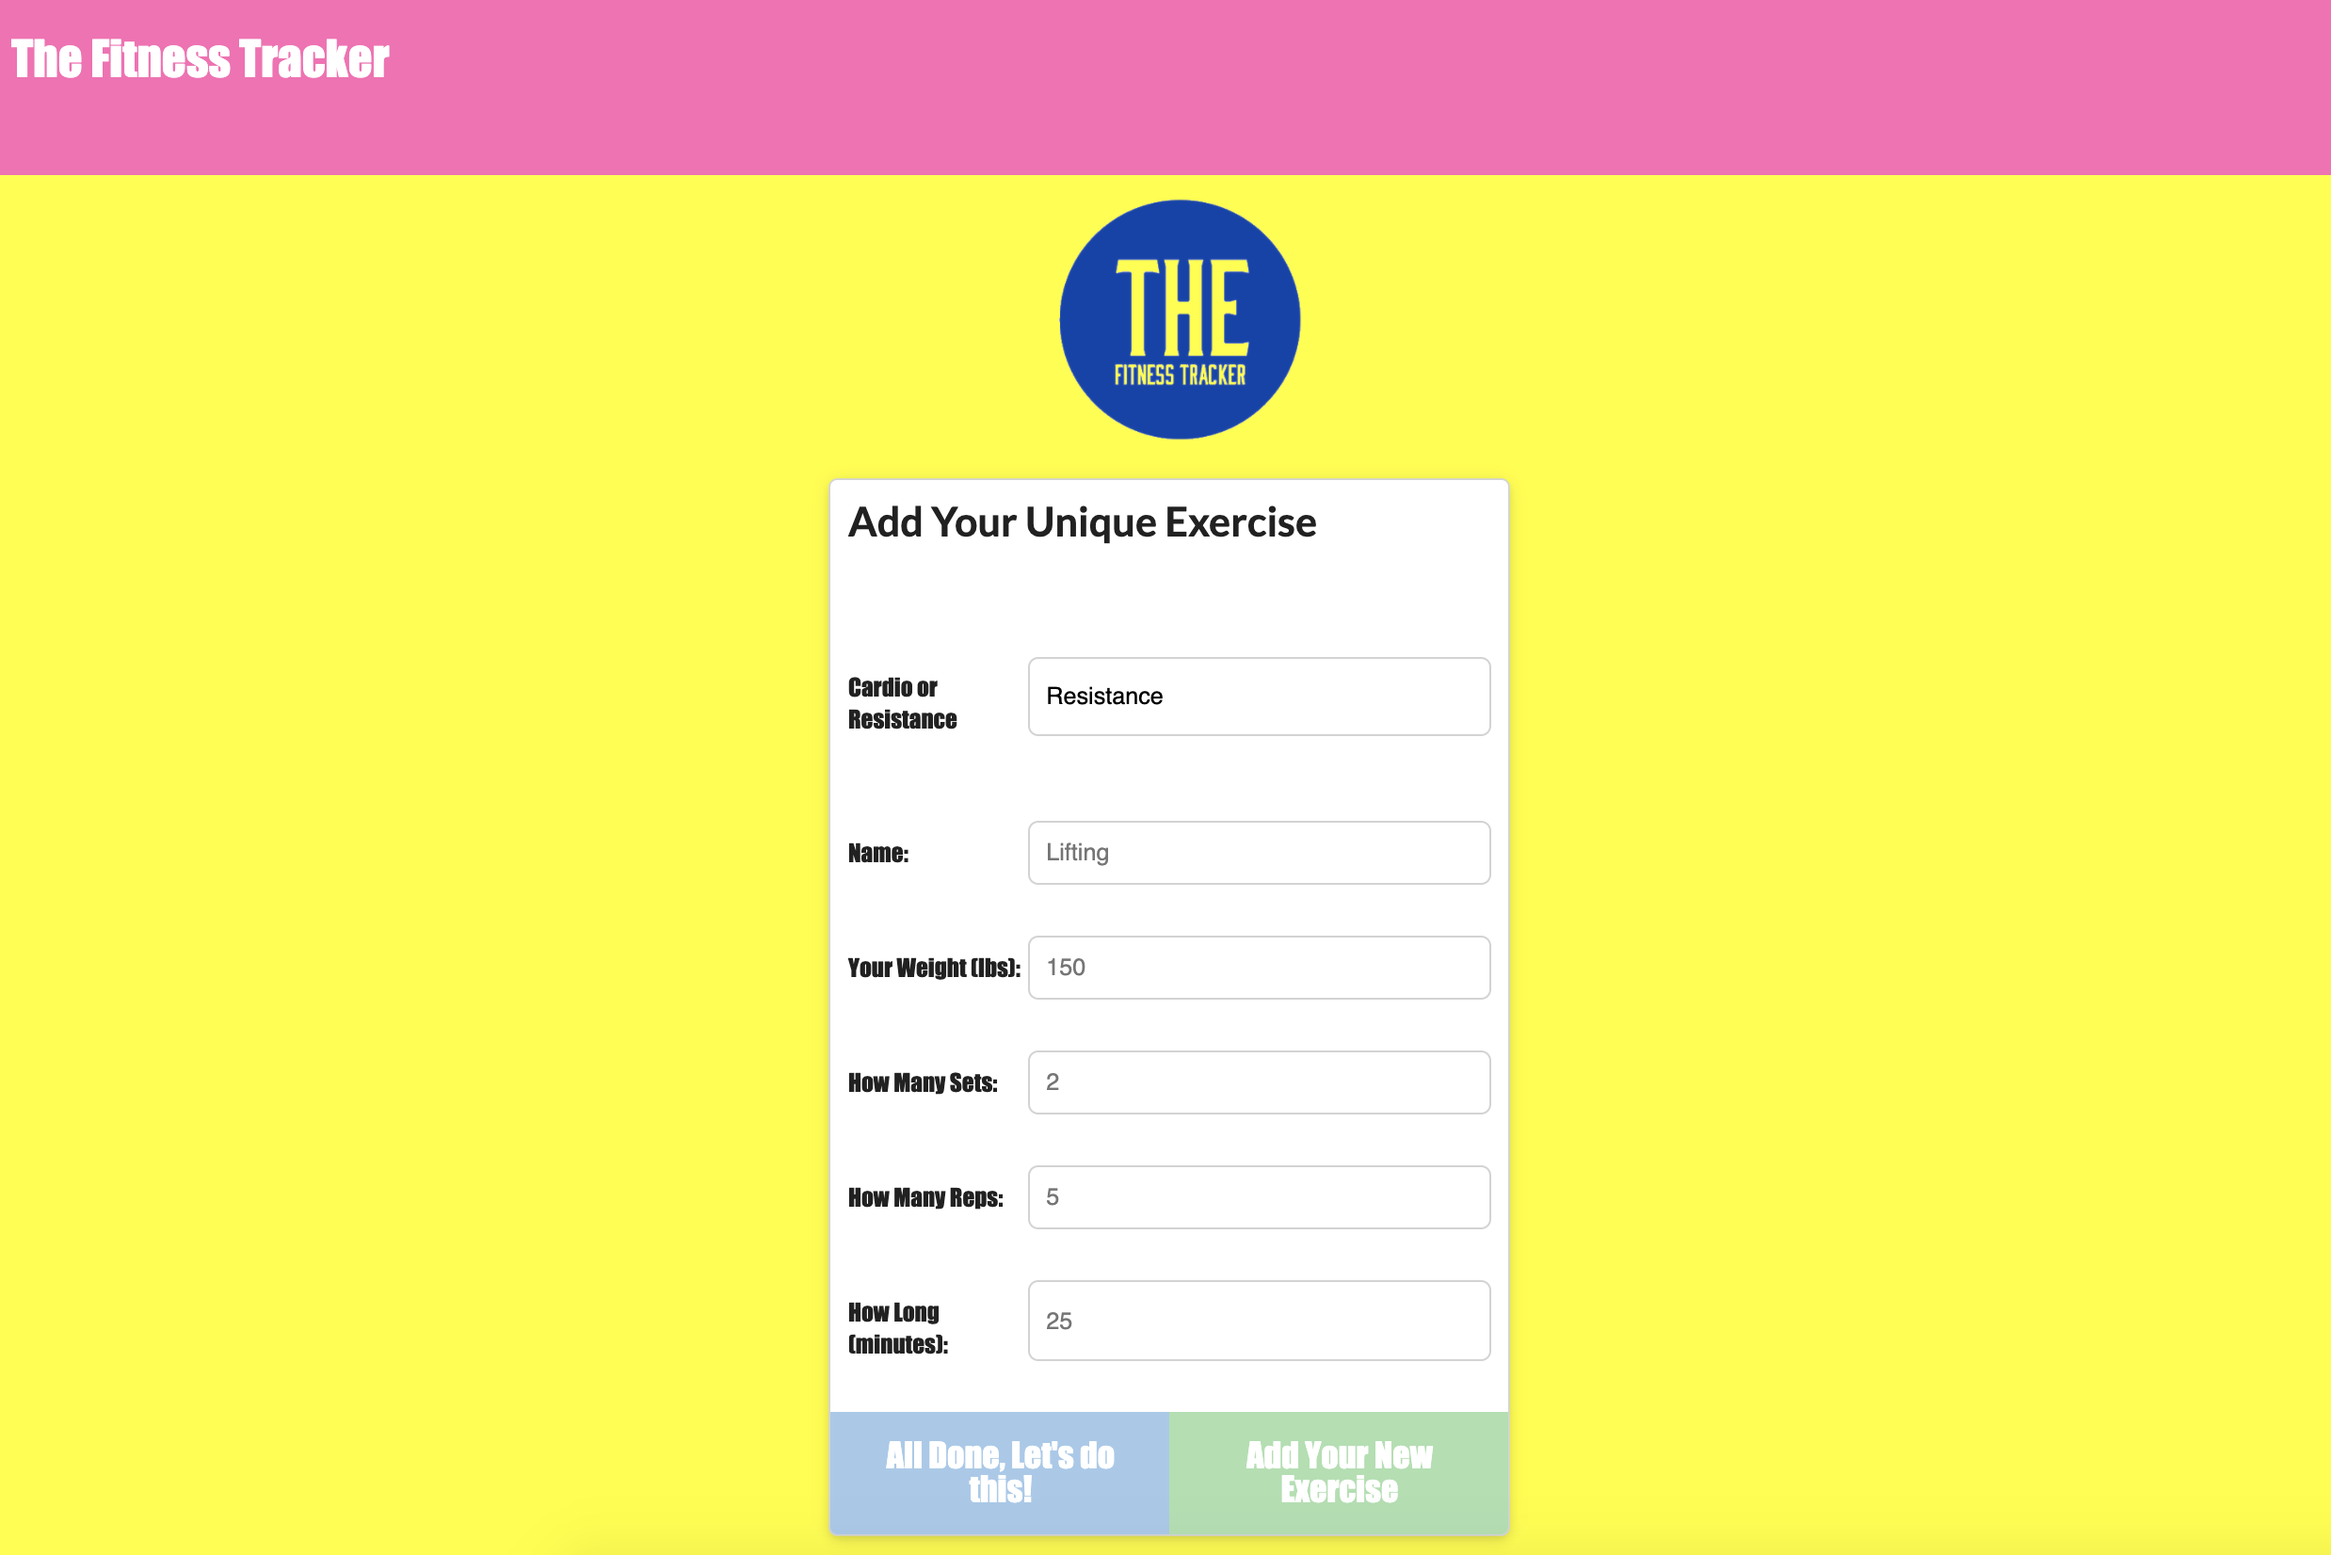
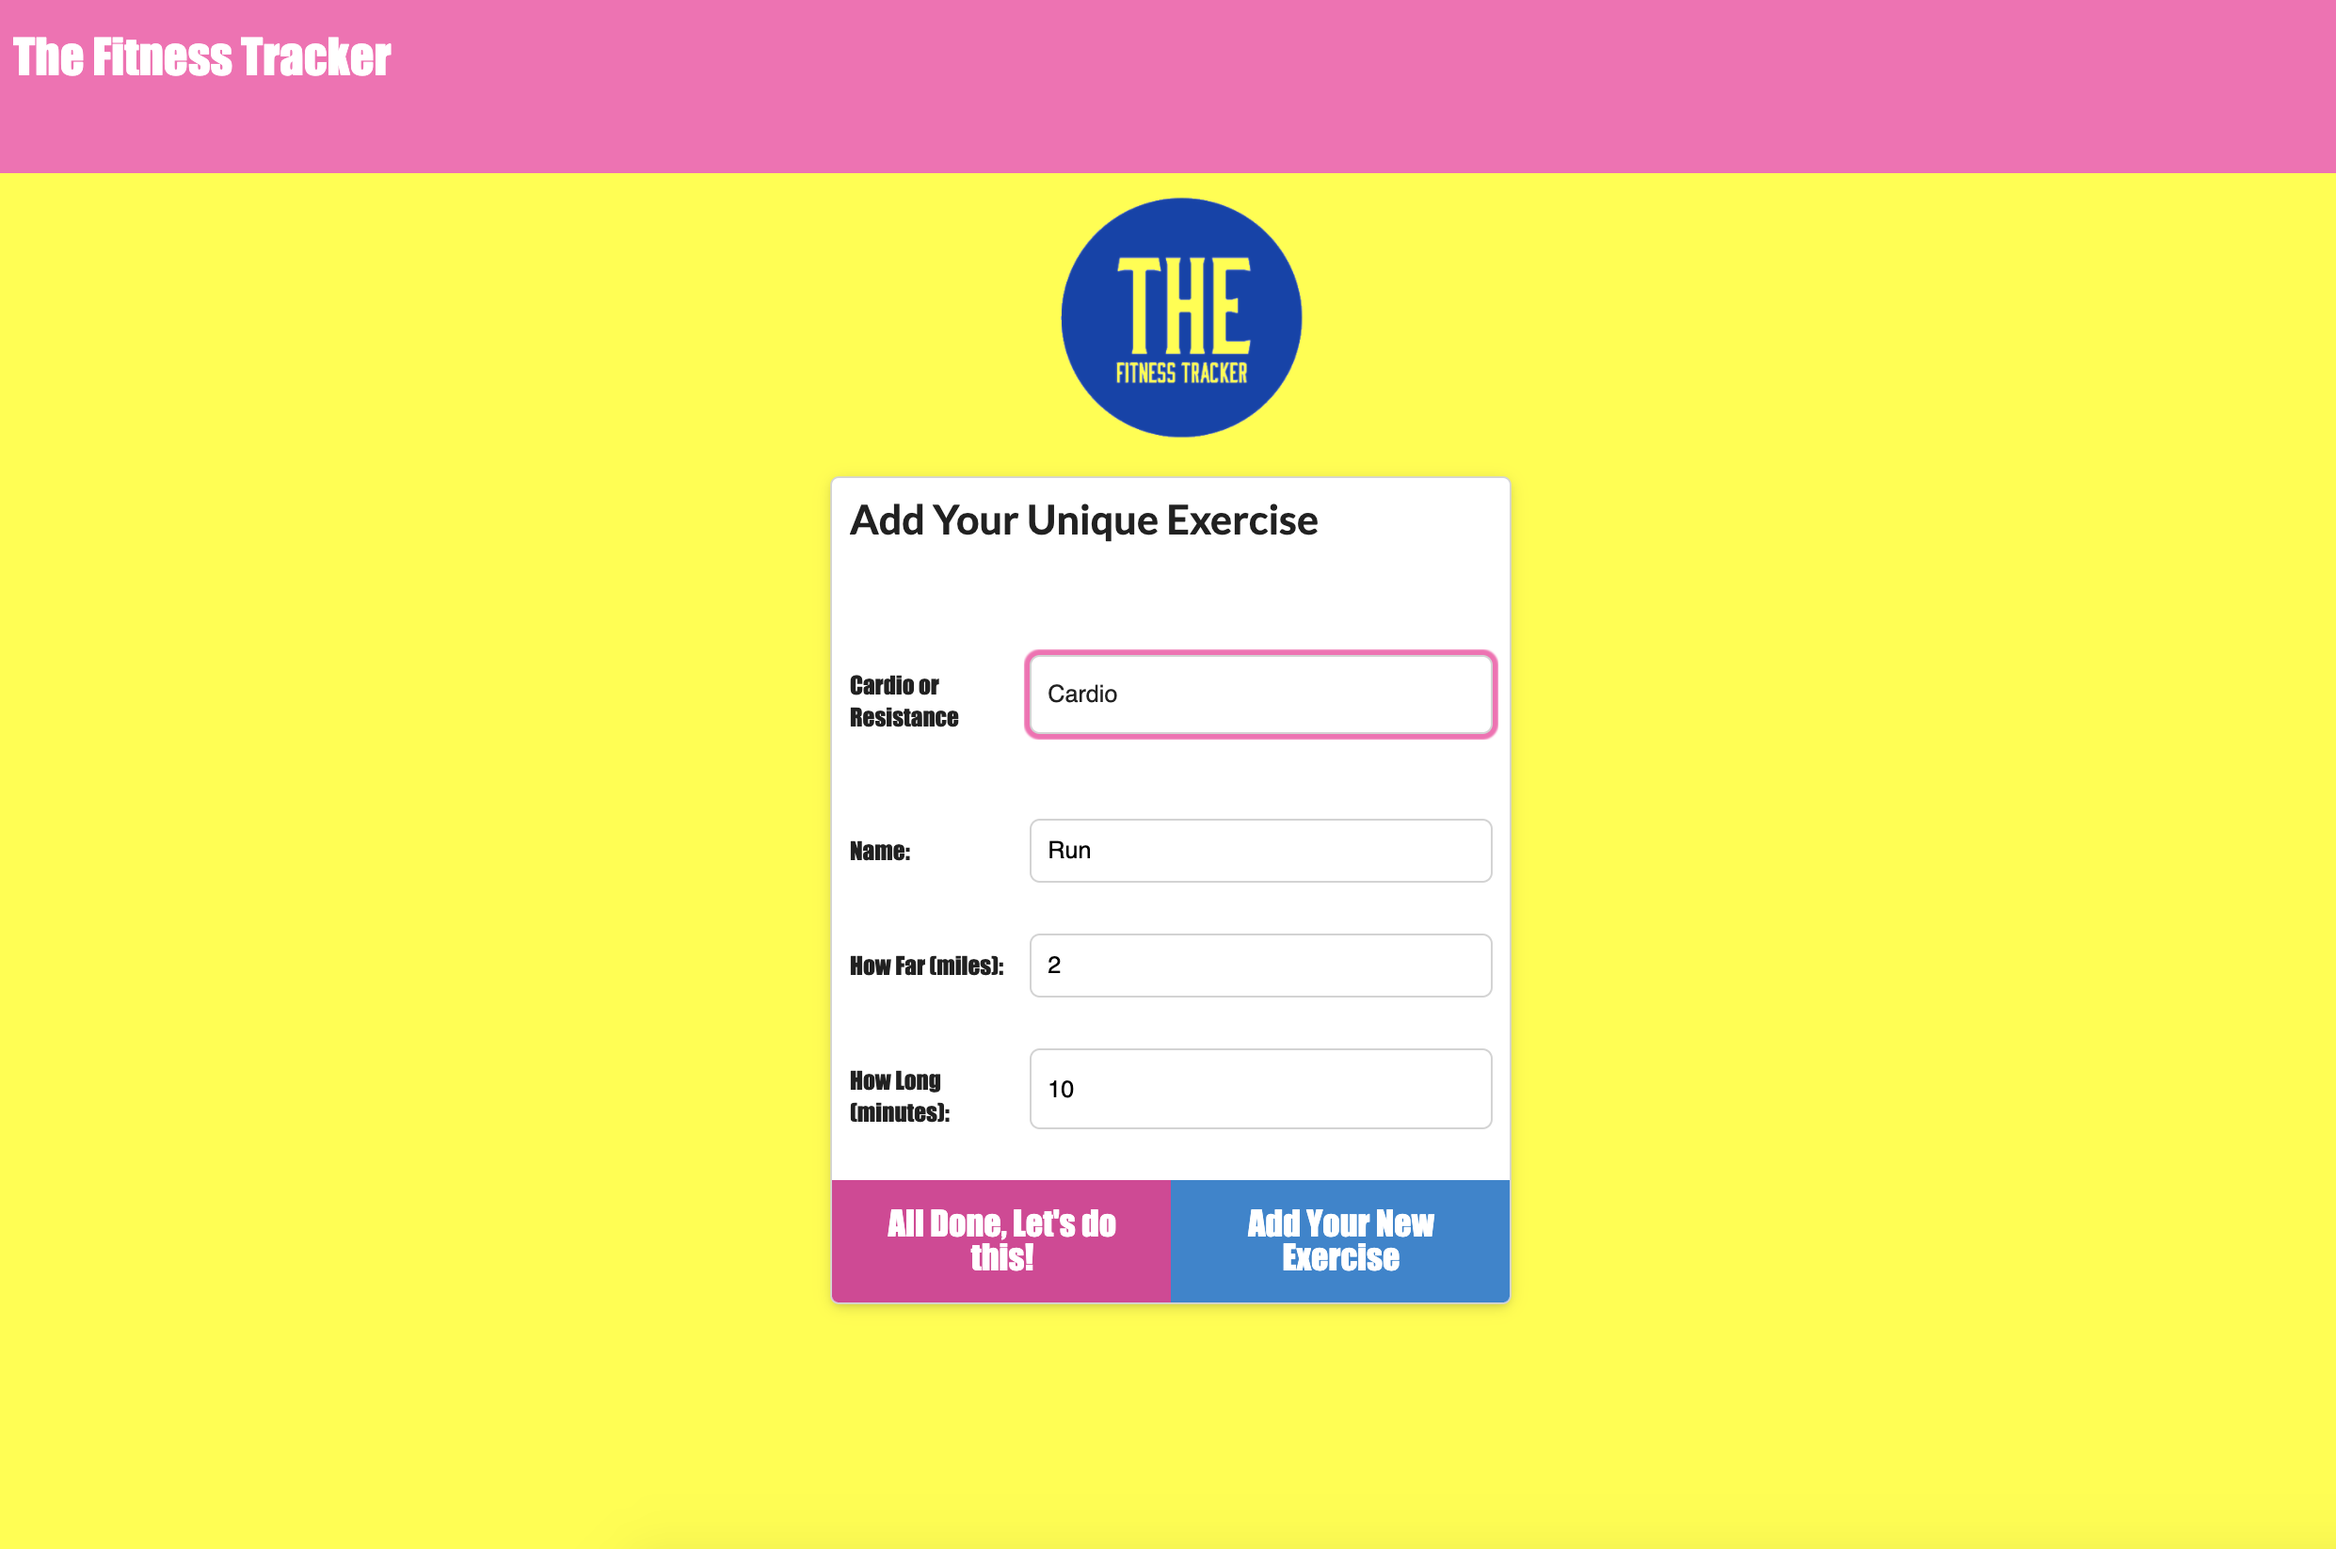
better pictures

diff --git a/public/exercise.html b/public/exercise.html
@@ -67,10 +67,10 @@
             </div>
           </div>
           <div class="buttons">
-            <button disabled class="huge ui blue button complete">
+            <button disabled class="huge ui pink button complete">
               All Done, Let's do this!
             </button>
-            <button disabled class="huge ui positive button add-another">
+            <button disabled class="huge ui blue button add-another">
               Add Your New Exercise
             </button>
           </div>

diff --git a/public/index.html b/public/index.html
@@ -28,7 +28,7 @@
             <div class="workout-stats"></div>
             <div class="buttons">
               <a id="continue-btn" href="/exercise?" class="huge ui pink button">Let's Continue Our Workout</a>
-              <a href="/exercise" class="huge positive ui button">Make a New Workout</a>
+              <a href="/exercise" class="huge blue ui button">Make a New Workout</a>
             </div>
           </div>
         </div>
